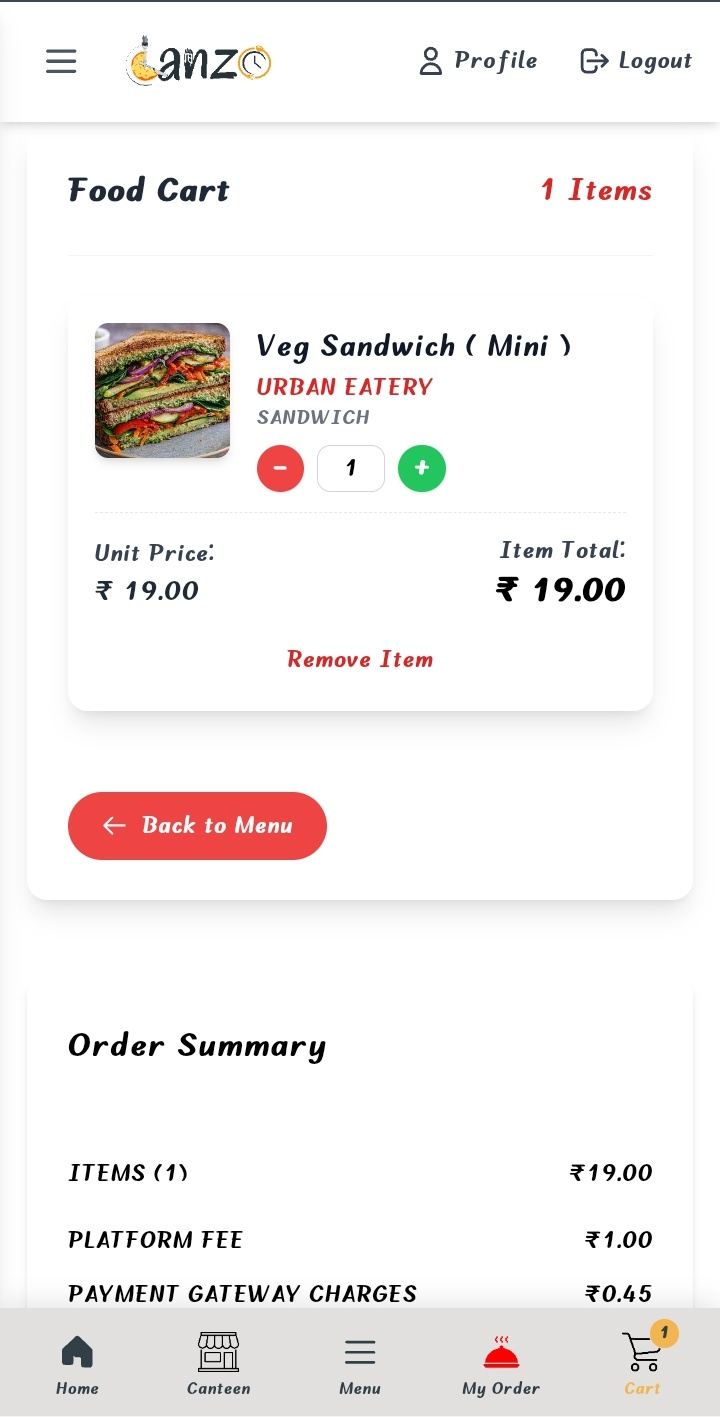
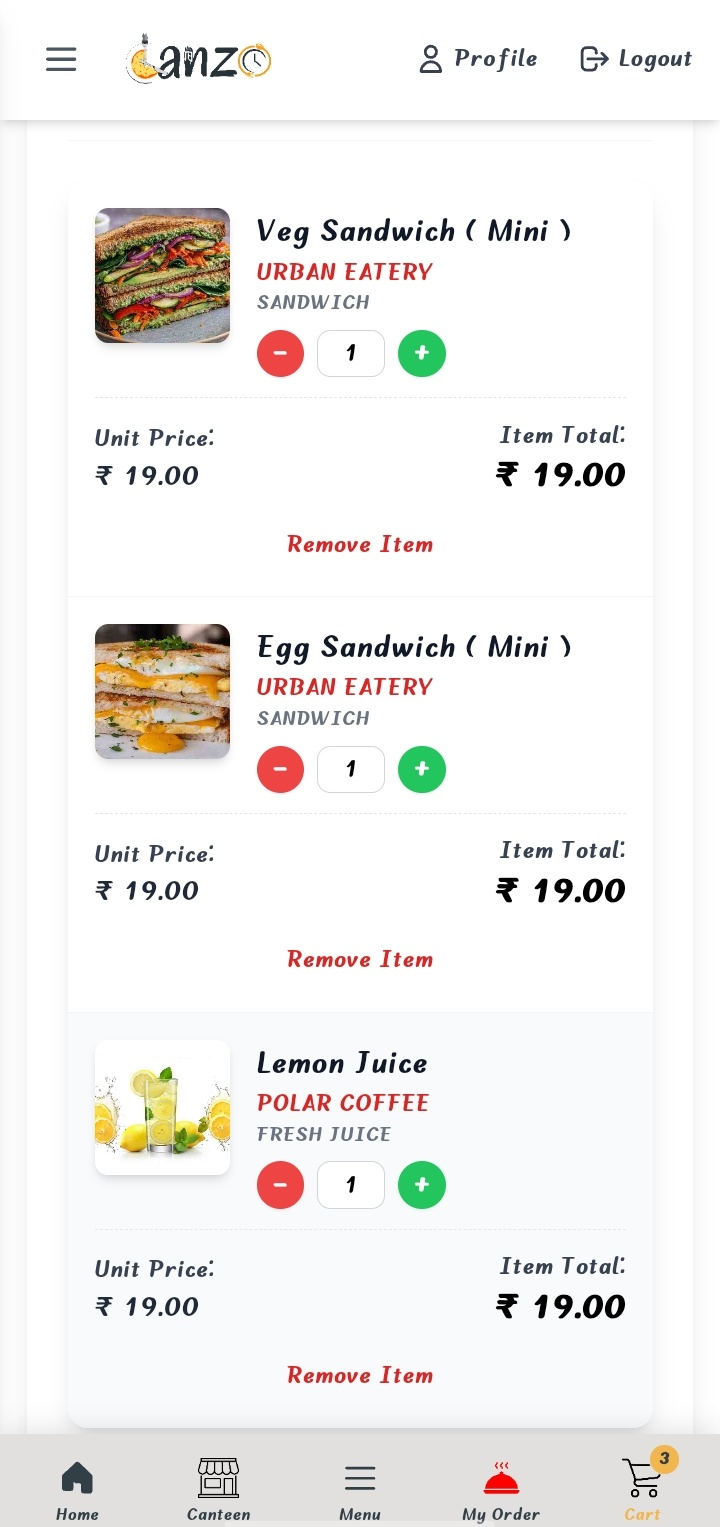
Implement premium interactive mobile card-stacking scale-down, dim, and blur scroll effects

diff --git a/src/components/StackCard.tsx b/src/components/StackCard.tsx
@@ -12,10 +12,9 @@ const StackCard: React.FC<StackCardProps> = ({ children, zIndex, className = "" 
   useEffect(() => {
     if (!cardRef.current) return;
 
-    const observer = new ResizeObserver(() => {
-      const card = cardRef.current;
-      if (!card) return;
+    const card = cardRef.current;
 
+    const updateStickyTop = () => {
       // If it's the combined card, we don't want to calculate sticky top because it uses relative positioning.
       if (card.classList.contains("stack-card-combined")) {
         card.style.top = "";
@@ -37,11 +36,67 @@ const StackCard: React.FC<StackCardProps> = ({ children, zIndex, className = "" 
       } else {
         card.style.top = "";
       }
+    };
+
+    const handleScroll = () => {
+      if (window.innerWidth > 767) {
+        card.style.transform = "";
+        card.style.filter = "";
+        card.style.transformOrigin = "";
+        card.style.willChange = "";
+        return;
+      }
+
+      if (card.classList.contains("stack-card-combined")) {
+        return;
+      }
+
+      const nextCard = card.nextElementSibling as HTMLElement;
+      if (nextCard) {
+        const nextRect = nextCard.getBoundingClientRect();
+        const windowHeight = window.innerHeight;
+        // Start the effect when the bottom of the section comes up to 45% of the viewport (nextRect.top is the top of the next card)
+        const threshold = windowHeight * 0.45;
+
+        if (nextRect.top < threshold) {
+          // Calculate progress from 1 (at threshold) to 0 (at 0 or below)
+          const progress = Math.max(0, Math.min(1, nextRect.top / threshold));
+          
+          // Map progress to scale, brightness, and blur
+          const newScale = 0.93 + (progress * 0.07); // Scales down to 0.93
+          const brightness = 0.5 + (progress * 0.5); // Dims to 50% brightness
+          const blur = (1 - progress) * 3; // Blurs up to 3px
+
+          card.style.transform = `scale(${newScale})`;
+          card.style.filter = `brightness(${brightness}) blur(${blur}px)`;
+          card.style.transformOrigin = "top center";
+          card.style.willChange = "transform, filter";
+        } else {
+          card.style.transform = "";
+          card.style.filter = "";
+          card.style.transformOrigin = "";
+          card.style.willChange = "";
+        }
+      }
+    };
+
+    updateStickyTop();
+    handleScroll();
+
+    const observer = new ResizeObserver(() => {
+      updateStickyTop();
+      handleScroll();
     });
+    observer.observe(card);
 
-    observer.observe(cardRef.current);
+    window.addEventListener("scroll", handleScroll, { passive: true });
+    window.addEventListener("resize", handleScroll, { passive: true });
 
-    return () => observer.disconnect();
+    return () => {
+      observer.disconnect();
+      window.removeEventListener("scroll", handleScroll);
+      window.removeEventListener("resize", handleScroll);
+    };
   }, []);
 
   return (

diff --git a/src/index.css b/src/index.css
@@ -232,8 +232,10 @@
       border-top-left-radius: 28px;
       border-top-right-radius: 28px;
       margin-top: -24px;
-      box-shadow: 0 -14px 36px -18px hsl(203 25% 18% / 0.25);
+      box-shadow: 0 -12px 32px -12px rgba(0, 0, 0, 0.35);
+      border-top: 1px solid rgba(255, 255, 255, 0.1);
       overflow: hidden;
+      transition: transform 0.1s ease-out, filter 0.1s ease-out;
     }
 
     .stack-card+.stack-card {
@@ -243,6 +245,8 @@
     .stack-card.stack-card-combined {
       background: transparent !important;
       position: relative !important;
+      border-top: none !important;
+      box-shadow: none !important;
     }
   }
 

diff --git a/src/components/ScreenshotsSection.tsx b/src/components/ScreenshotsSection.tsx
@@ -5,7 +5,7 @@ import { EffectCoverflow, Autoplay } from "swiper/modules";
 import type { Swiper as SwiperClass } from "swiper";
 import "swiper/css";
 import "swiper/css/effect-coverflow";
-import web4 from "@/assets/work/web4.jpeg";
+import web4 from "@/assets/work/web4.png";
 import web5 from "@/assets/work/web5.jpeg";
 import web6 from "@/assets/work/web6.jpeg";
 